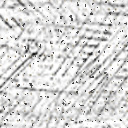
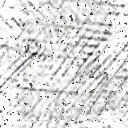
grid art afternoon

diff --git a/base-p5-project-main/js/grid2.js b/base-p5-project-main/js/grid2.js
@@ -1,4 +1,5 @@
 let textures = [];
+let colours;
 function preload(){
     let texturesNum = 4;
     for(let i = 1; i <= texturesNum;i++){
@@ -10,6 +11,7 @@ function preload(){
 
 }
 function setup() {
+    let colours = [color(`#DDF8E8`), color(`#CDD5D1`), color(`#B4A6AB`), color(`#946E83`), color(`#615055`), color(`#08415C`), color(`#5F1A37`), color(`#36413E`)];
     createCanvas (800, 800);
     const CELL_SIZE = 80;
     let x =0;
@@ -17,11 +19,11 @@ function setup() {
     noStroke()
     while(y < height){
         while(x < width){
-            tint(random(255))
+            tint(random(colours))
             let t = random(textures);
-            image(t, x, y, CELL_SIZE)
+            rotate(random(PI))
+            image(t, x+random(-3, 2), y+random(-3, 2), CELL_SIZE+random(-10, 10), CELL_SIZE+random(-10, 10))
             x+=CELL_SIZE;
-
         }
         y+=CELL_SIZE;
         x =0;

diff --git a/base-p5-project-main/index3.html b/base-p5-project-main/index3.html
@@ -1,0 +1,13 @@
+<!DOCTYPE html>
+<html lang="en">
+  <head>
+    <meta charset="UTF-8" />
+    <meta http-equiv="X-UA-Compatible" content="IE=edge" />
+    <meta name="viewport" content="width=device-width, initial-scale=1.0" />
+    <title>grid 3</title>
+    <script src="lib/p5.min.js"></script>
+    <script src="js/grid3.js"></script>
+    <link rel="stylesheet" href="css/style3.css">
+  </head>
+  <body></body>
+</html>

diff --git a/base-p5-project-main/js/grid3.js b/base-p5-project-main/js/grid3.js
@@ -1,7 +1,6 @@
-
 function setup() {
     const CELL_SIZE = 40;
-    createCanvas(800, 800);
+    createCanvas(1500, 1500);
     background(255);
     //noStroke();
     let x = 0;
@@ -42,4 +41,3 @@ function setup() {
 }
 function draw() {
 }
-

diff --git a/base-p5-project-main/css/style3.css b/base-p5-project-main/css/style3.css
@@ -1,0 +1,15 @@
+html,
+body {
+  margin: 0;
+  padding: 0;
+  background-color: white;
+  display: flex;
+  justify-content: center;
+  align-items: center;
+  height: 100%;
+
+}
+canvas {
+  display: block;
+  outline: 10px solid white;
+}
